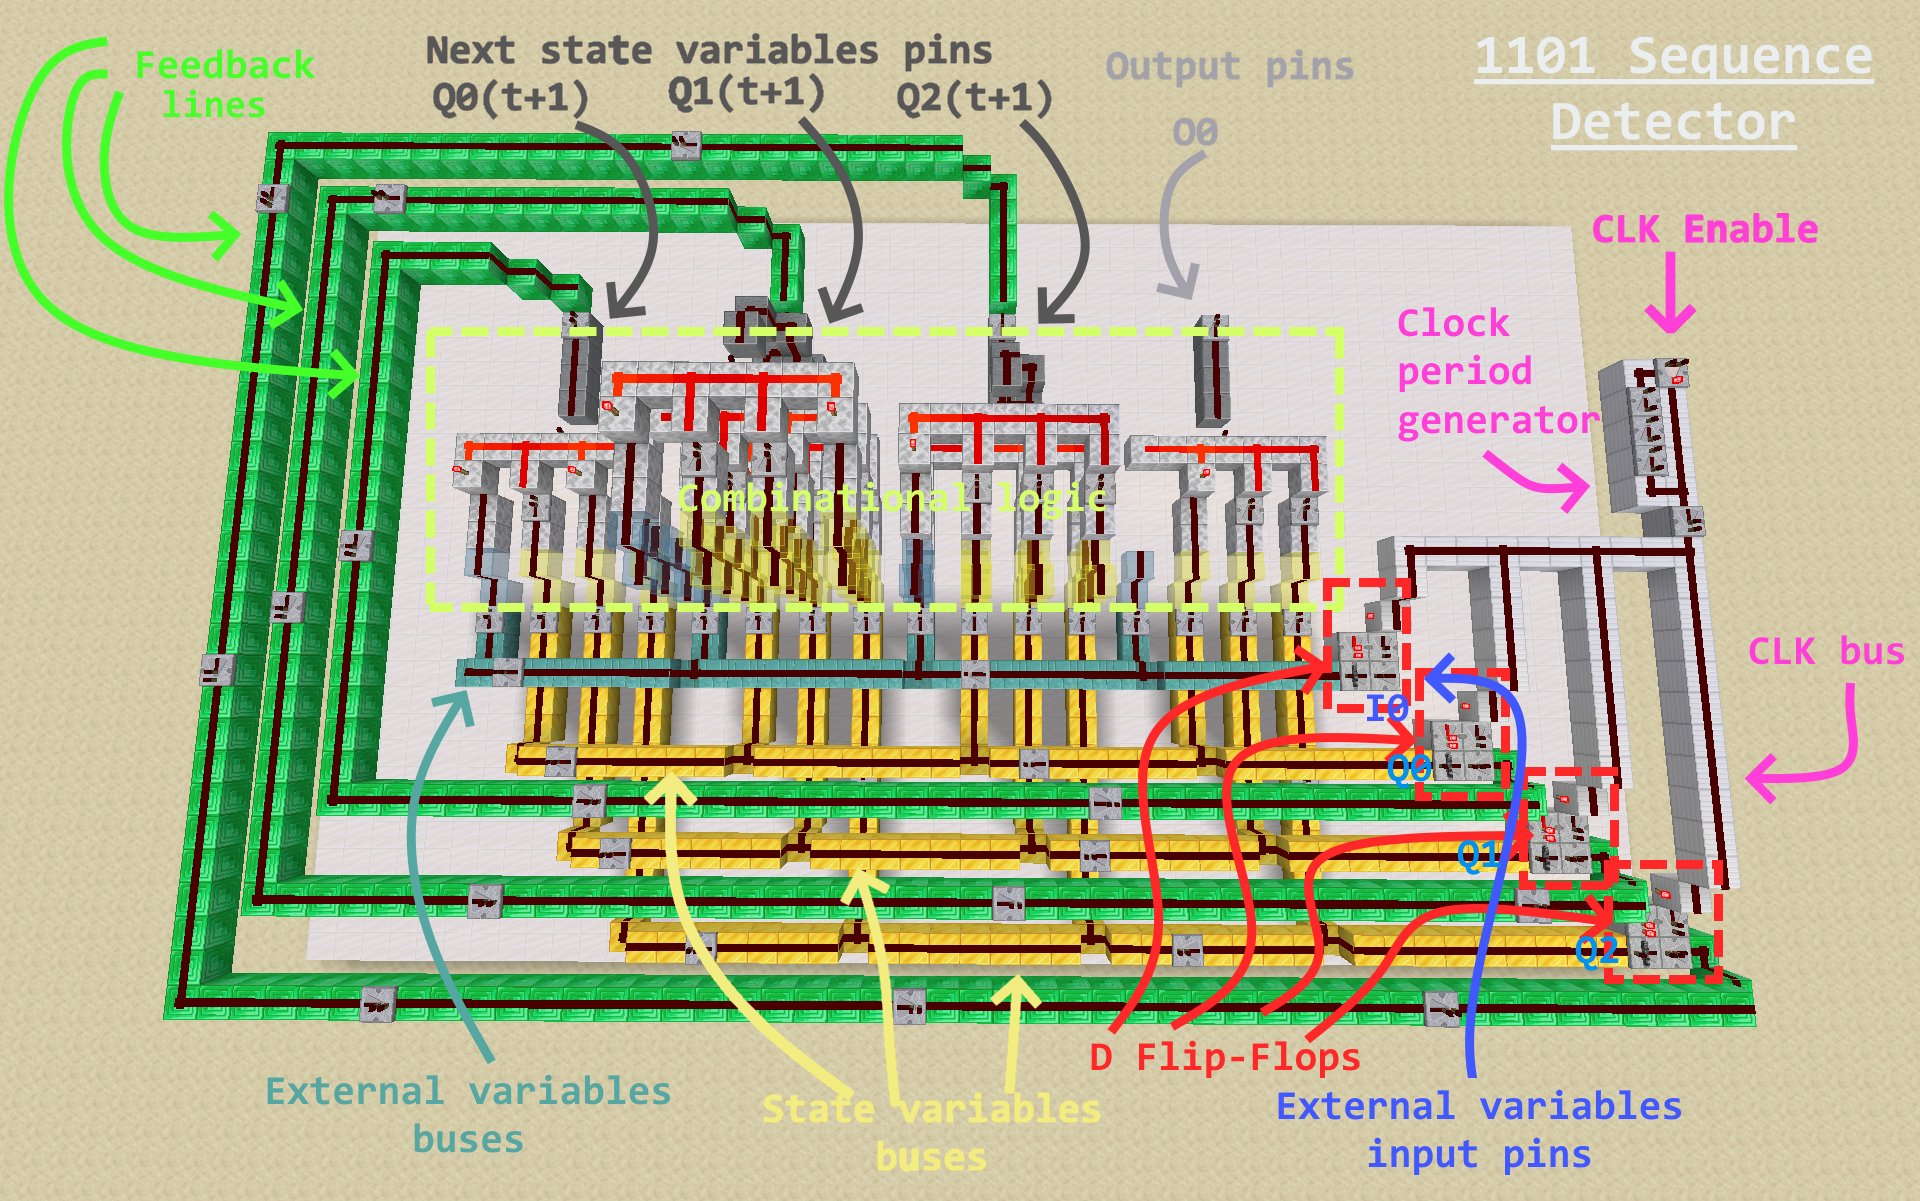
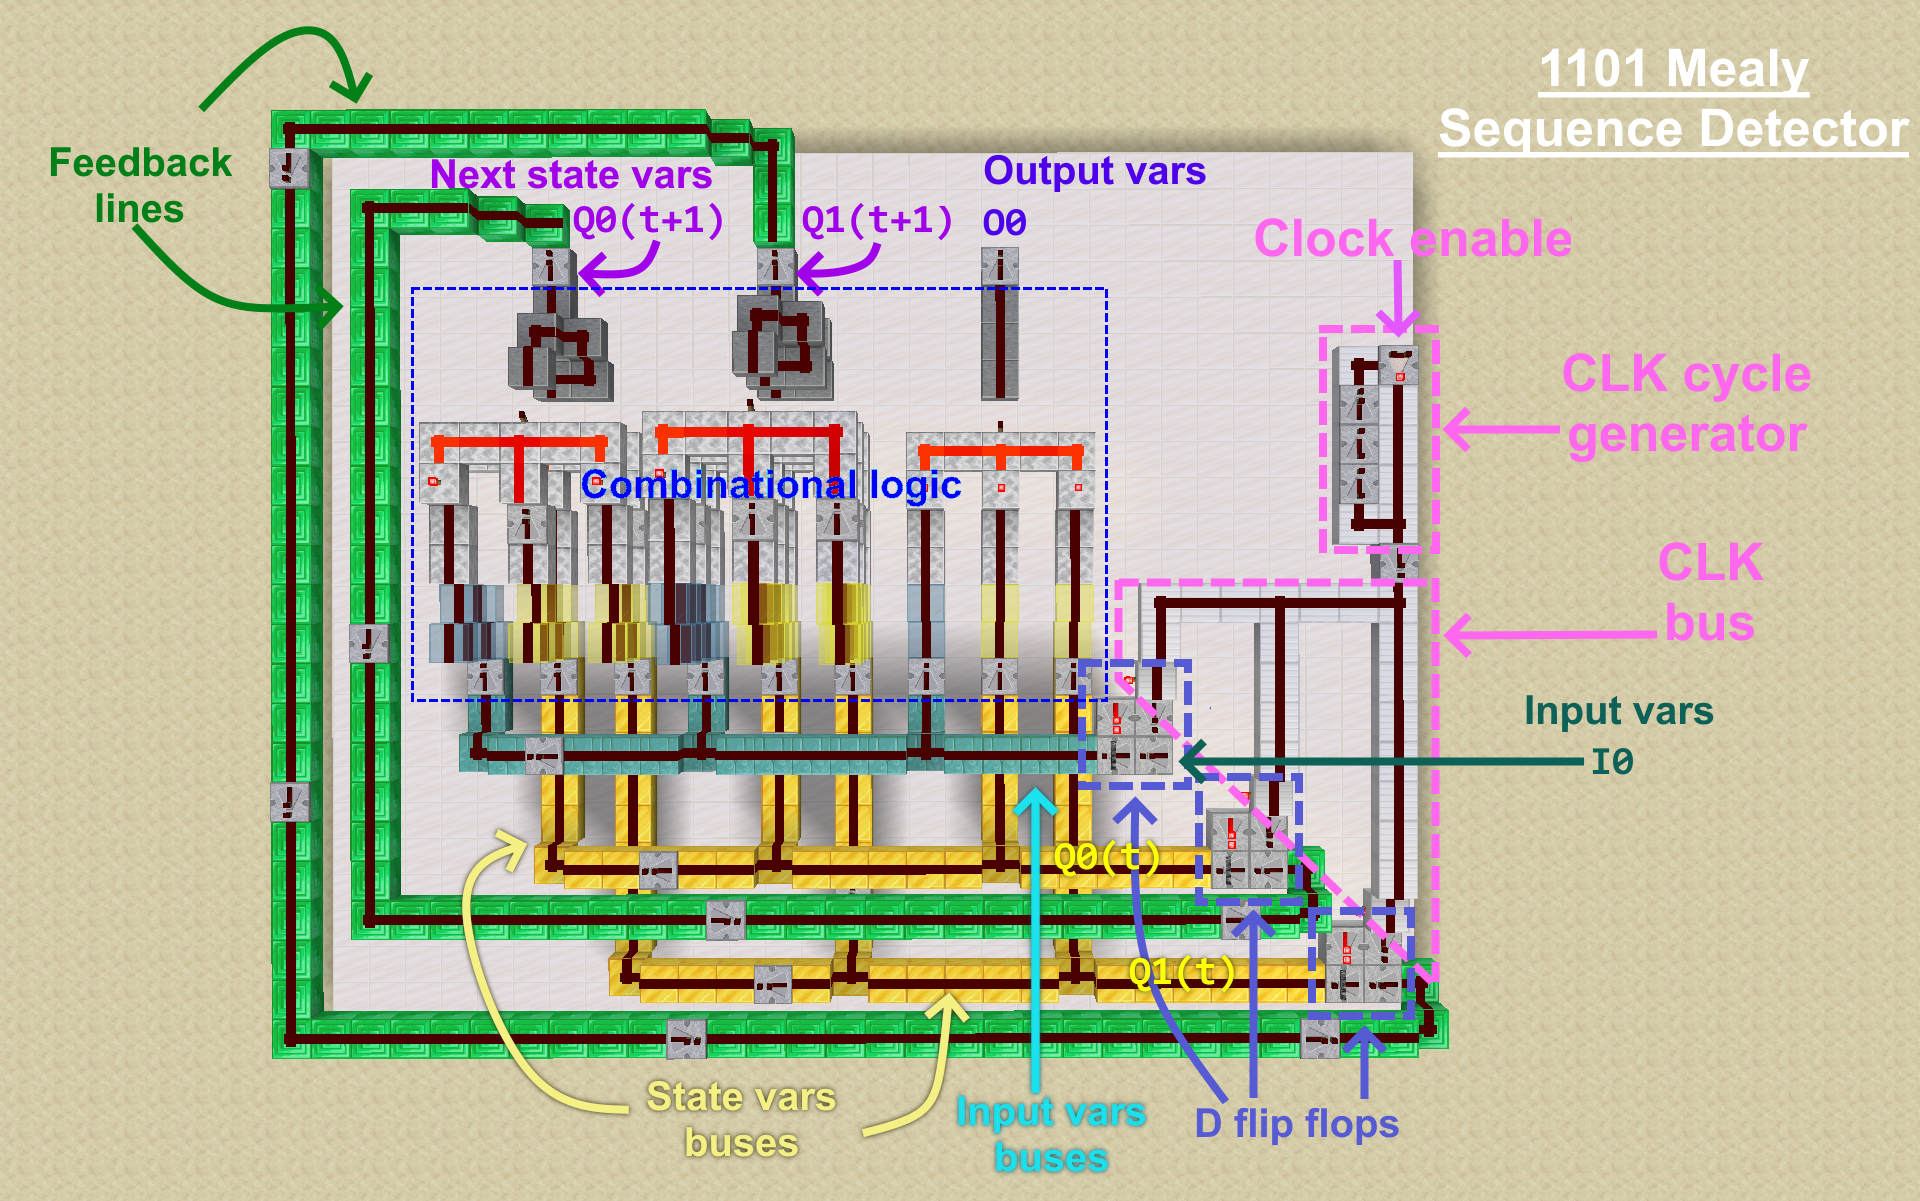
Updated README.md. Replaced example image

diff --git a/README.md b/README.md
@@ -1,19 +1,19 @@
 # FSM-Redstone-Synthesizer
 
-A tool to automatically implement **Finite State Machines (FSM)** using Minecraft Redstone, based on given specifications in JSON files, outputting schematic files, that can be placed into your Minecraft worlds.
+A tool to automatically synthesize **Finite State Machines (FSM)** as Minecraft Redstone circuits.
 
-Instead of manually wiring the logic for complex Redstone contraptions, you can simply describe your machine's state transitions in a JSON file and this program will generate a control unit for you.
+Instead of manually wiring the logic for complex Redstone contraptions, you can simply describe your machine's state transitions in a JSON file and this program will generate a control unit for you in a schematic file, that can be easily placed in your Minecraft world.
 
 ## Features
 - **Logic minimization:** Highly optimized logic is generated using the Espresso algorithm (implemented in the `pyeda` library), to generate logic blocks that implement the combinational logic for calculating the output variables and what the state variables should be on the next rising edge of the clock.
 
 - **Human-readable JSON:** The states, inputs and outputs are defined using string names. So, confusion with bit arrays is avoided.
 
-- **Generate complete Moore machines:** This program can generate Moore FSMs (you could also try Mealy machines, but they were not tested yet). These control units are then meant to be hooked up to other components at the external input and output pins.
+- **Generate complete Mealy or Moore machines:** This program can generate Mealy or Moore FSMs. These control units are then meant to be hooked up to other components at the external input and output pins. Note that Mealy outputs may be subject to transient logic hazards (flickering), so manual in-game verification is recommended to ensure timing stability for specific applications.
 
-- **Export as ready-to-paste schematics:** The generated output files are `.litematic`, and require [Litematica mod](https://modrinth.com/mod/litematica) to be pasted in the world. As of the moment, only Litematica for Minecraft Java Edition is supported, thanks to the `litemapy` library.
+- **Export as ready-to-paste schematics:** The generated output files are `.litematic`, and require [Litematica mod](https://modrinth.com/mod/litematica) to be pasted in the world. Currently, only Litematica for Minecraft Java Edition is supported, thanks to the `litemapy` library.
 
-- **Wide compatibility:** All the generated circuits use only long-standing intended game mechanics, the only Redstone components used being wires, torches, repeaters and comparators. So, while, at the current moment, this was tested on Minecraft Java Edition `1.21.4`, it is expected to be compatible with any Minecraft version that has the Litematica mod available. 
+- **Wide compatibility:** All the generated circuits use only standard game mechanics. The only Redstone components used being wires, torches, repeaters and comparators. So, while, at the current moment, this was tested on Minecraft Java Edition `1.21.4`, it is expected to be compatible with any modern Minecraft version that has the Litematica mod available. 
 
 ## Hardware architecture
 The synthesizer generates a standard digital logic layout:
@@ -23,12 +23,12 @@ The synthesizer generates a standard digital logic layout:
 
 - **Combinational logic**: Dedicated logic towers for state transitions and external output variables.
 
-- **Feedback lines**: Lines that take the signals from the towers that compute the next state and go to be fed back into their corresponding D flip-flops.
+- **Feedback lines**: Route computed next state signals from the logic towers back to their corresponding D flip-flops to update the machine state.
 
-- **Clock bus**: A clock that goes towards all the D flip-flops, to update them, providing a stable 50/50 duty cycle.
+- **Clock bus**: Distributes a stable 50% duty cycle signal to synchronize all the D flip-flops.
 
 Resulting building example:
-![A top-down view of a generated Minecraft build that implements a 1101 bit sequence detector](images/1101_sequence_detector.png)
+![A top-down view of a generated Minecraft build that implements a 1101 bit sequence detector Mealy machine](images/1101_sequence_detector.png)
 
 ## Using with Docker on Linux
 The easiest way to deploy this on Linux-based systems is using Docker
@@ -45,7 +45,7 @@ cd FSM-Redstone-Synthesizer
 
 3. To use, launch the `run_container.sh` script, as in this given example:
 ```bash
-./run_container.sh examples/simple_vending_machine.json output/vending.litematic
+./run_container.sh examples/1101_sequence_detector.json output/1101.litematic
 ```
 
 ## Local installation on Linux
@@ -57,28 +57,28 @@ cd FSM-Redstone-Synthesizer
 
 2. Setup a python `venv`:
 ```bash
-python -m venv .venv
+python3 -m venv .venv
 source .venv/bin/activate
 pip install -r requirements.txt
 ```
 
 3. To use, run the `build_fsm.py` script, like in this example
 ```bash
-python build_fsm.py examples/1101_sequence_detector.json output/1101.litematic
+python3 build_fsm.py examples/1101_sequence_detector.json output/1101_detector.litematic
 ```
 
 ## Example JSON for defining a FSM
-Here is an example of a JSON that implements a Moore FSM that detects the `1101` sequence in the input, outputting a `1` after it is detected.
+Here is an example of a JSON that implements a Mealy FSM that detects the `1101` sequence in the input, outputting a `1` as soon as it is detected.
 
 ```json
 {
     "info": {
         "name": "1101_sequence_detector",
-        "description": "A machine that detects 1101 input sequence and outputs 1 the next clock cycle after being detected."
+        "description": "A Mealy machine that detects 1101 input sequence and outputs 1 as soon the sequence is detected. Overlapping sequences are accepted."
     },
     "config": {
         "num_inputs": 1,
-        "num_state_vars": 3,
+        "num_state_vars": 2,
         "num_outputs": 1
     },
 
@@ -87,11 +87,10 @@ Here is an example of a JSON that implements a Moore FSM that detects the `1101`
         {"enabled_input": [1]}
     ],
     "state_names": [
-        {"initial": [0, 0, 0]},
-        {"entered_1": [0, 0, 1]},
-        {"entered_11": [0, 1, 0]},
-        {"entered_110": [0, 1, 1]},
-        {"entered_1101": [1, 0, 0]}
+        {"initial": [0, 0]},
+        {"entered_1": [0, 1]},
+        {"entered_11": [1, 0]},
+        {"entered_110": [1, 1]}
     ],
     "output_names": [
         {"no_output": [0]},
@@ -109,18 +108,15 @@ Here is an example of a JSON that implements a Moore FSM that detects the `1101`
         { "input": "enabled_input", "state_t": "entered_11", "state_next": "entered_11", "output": "no_output" },
 
         { "input": "no_input", "state_t": "entered_110", "state_next": "initial", "output": "no_output" },
-        { "input": "enabled_input", "state_t": "entered_110", "state_next": "entered_1101", "output": "no_output" },
-
-        { "input": "no_input", "state_t": "entered_1101", "state_next": "initial", "output": "enabled_output" },
-        { "input": "enabled_input", "state_t": "entered_1101", "state_next": "entered_11", "output": "enabled_output" }
+        { "input": "enabled_input", "state_t": "entered_110", "state_next": "entered_1", "output": "enabled_output" }
     ]
 }
 ```
 
 ## Known issues and potential improvements (feel free to contribute!)
-- Up to 14 (external input variables + state variables) are currently supported, due to the generation of a layer of the towers for combinational logic not having repeaters at the long lines where the inputs are combined.
-- The block-storage logic is format-agnostic. So, exporters for vanilla structure blocks or other schematic mods, maybe even some supporting other editions, like Minecraft Bedrock, could be added.
+- Supports up to 14 total variables (inputs + state). Current combinational logic towers lack signal repeaters on long input lines, so their width is limited due to signal decay.
+- The block-storage logic is format-agnostic. So, exporters for vanilla structure blocks or other schematic mods (maybe even some supporting other Minecraft editions, like the Bedrock Edition) could be added.
 - Add the possibility to change the base blocks in a separate configuration file, without having to edit `src/blocks.py`.
 - Find a more optimal layout for the feedback lines (currently they contribute the biggest delay).
-- Equalize the delays of all the input buses, respectively the feedback lines, to guarantee stable Mealy machines.
+- Equalize the delays of all the input buses, respectively the feedback lines, to increase the stability of Mealy machines.
 - Develop a GUI for visually designing transition diagrams, removing the need for direct JSON editing.
